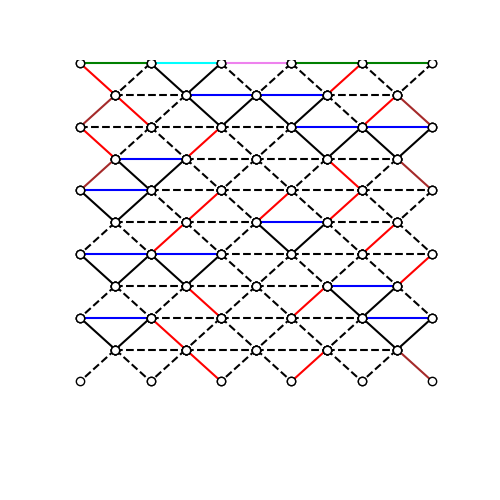
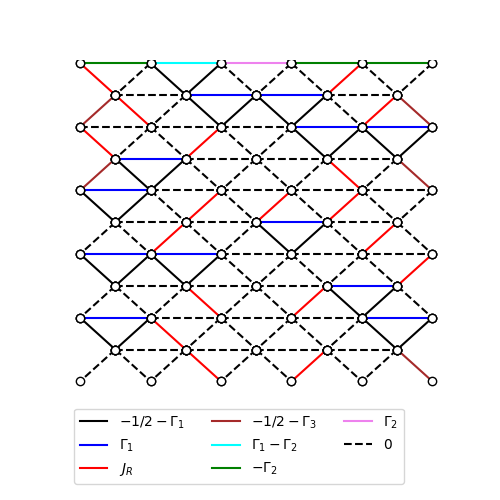
full update

diff --git a/pf_method.py b/pf_method.py
@@ -162,7 +162,7 @@ def generate_lattice_couplings(L,T,meas,G,beta,q=2,plot=False,ax=[]):
         show_lattice(ax,J_matrix_display== G1+G2,L,T,col='violet',label=r'$\Gamma_1+\Gamma_2$')
         show_lattice(ax,J_matrix_display==+G2,L,T,col='violet',label=r'$\Gamma_2$')
         show_lattice(ax,AND(K_matrix,NOT(edges_5 + edges_6)!=0),L,T,col='k',ls='--',label=r'$0$')
-        #plt.legend(loc='best',markerscale=None,ncol=3)
+        plt.legend(loc=(0.005*L,-0.1),ncol=3,numpoints=None)
         plt.ylim(-T-1,0.1)
     
     # 12 -- adding regularization
@@ -172,16 +172,6 @@ def generate_lattice_couplings(L,T,meas,G,beta,q=2,plot=False,ax=[]):
     return J_matrix1,J_matrix2
 
 def add_measurements(meas,J_matrix,L,T,G1,J_eff):
-    
-    # =============================================================================
-    #   
-    #     
-    #     
-    #     
-    #     
-    #     
-    #     
-    # =============================================================================
     
     Lph,Tph = len(meas.T),len(meas)
     K_matrix = 0*J_matrix
@@ -218,13 +208,17 @@ def show_lattice(ax,adj_matrix,L,T,col='k',ls='-',label=''):
     basis_x = np.tile(np.arange(L),T)
     basis_y = np.repeat(np.arange(T),L)
     X,Y = np.meshgrid(basis_x,basis_y)
-    s=1
+    s,m_indc=1,1
     for i in range(len(adj_matrix)):
         for j in range(i+1,len(adj_matrix)):
             if adj_matrix[i,j]:
-               #if adj_matrix[i,j] not in link_database:
+               if m_indc==1:
+                   ax.plot([0,0],[0,0],c=col,ls=ls,markersize=None,label=label)
+                   m_indc=0
                ax.plot([basis_x[i]-0.5*s*(basis_y[i]%2),basis_x[j]-0.5*s*(basis_y[j]%2)],[-basis_y[i],-basis_y[j]],c=col
-                      ,ls=ls,markersize=6,marker='o',mfc='w',mec='k')#,label=label)
+                      ,ls=ls,markersize=6,marker='o',mfc='w',mec='k')
+               
+                   
     ax.axis('off')    
     return 0
 

diff --git a/generate_lattice_plot.py b/generate_lattice_plot.py
@@ -1,6 +1,5 @@
 # -- Generating Supplement Figure S1 -- the effective lattice
 import sys
-import random
 import numpy as np
 import matplotlib.pyplot as plt
 from pf_method import visualize_lattice
